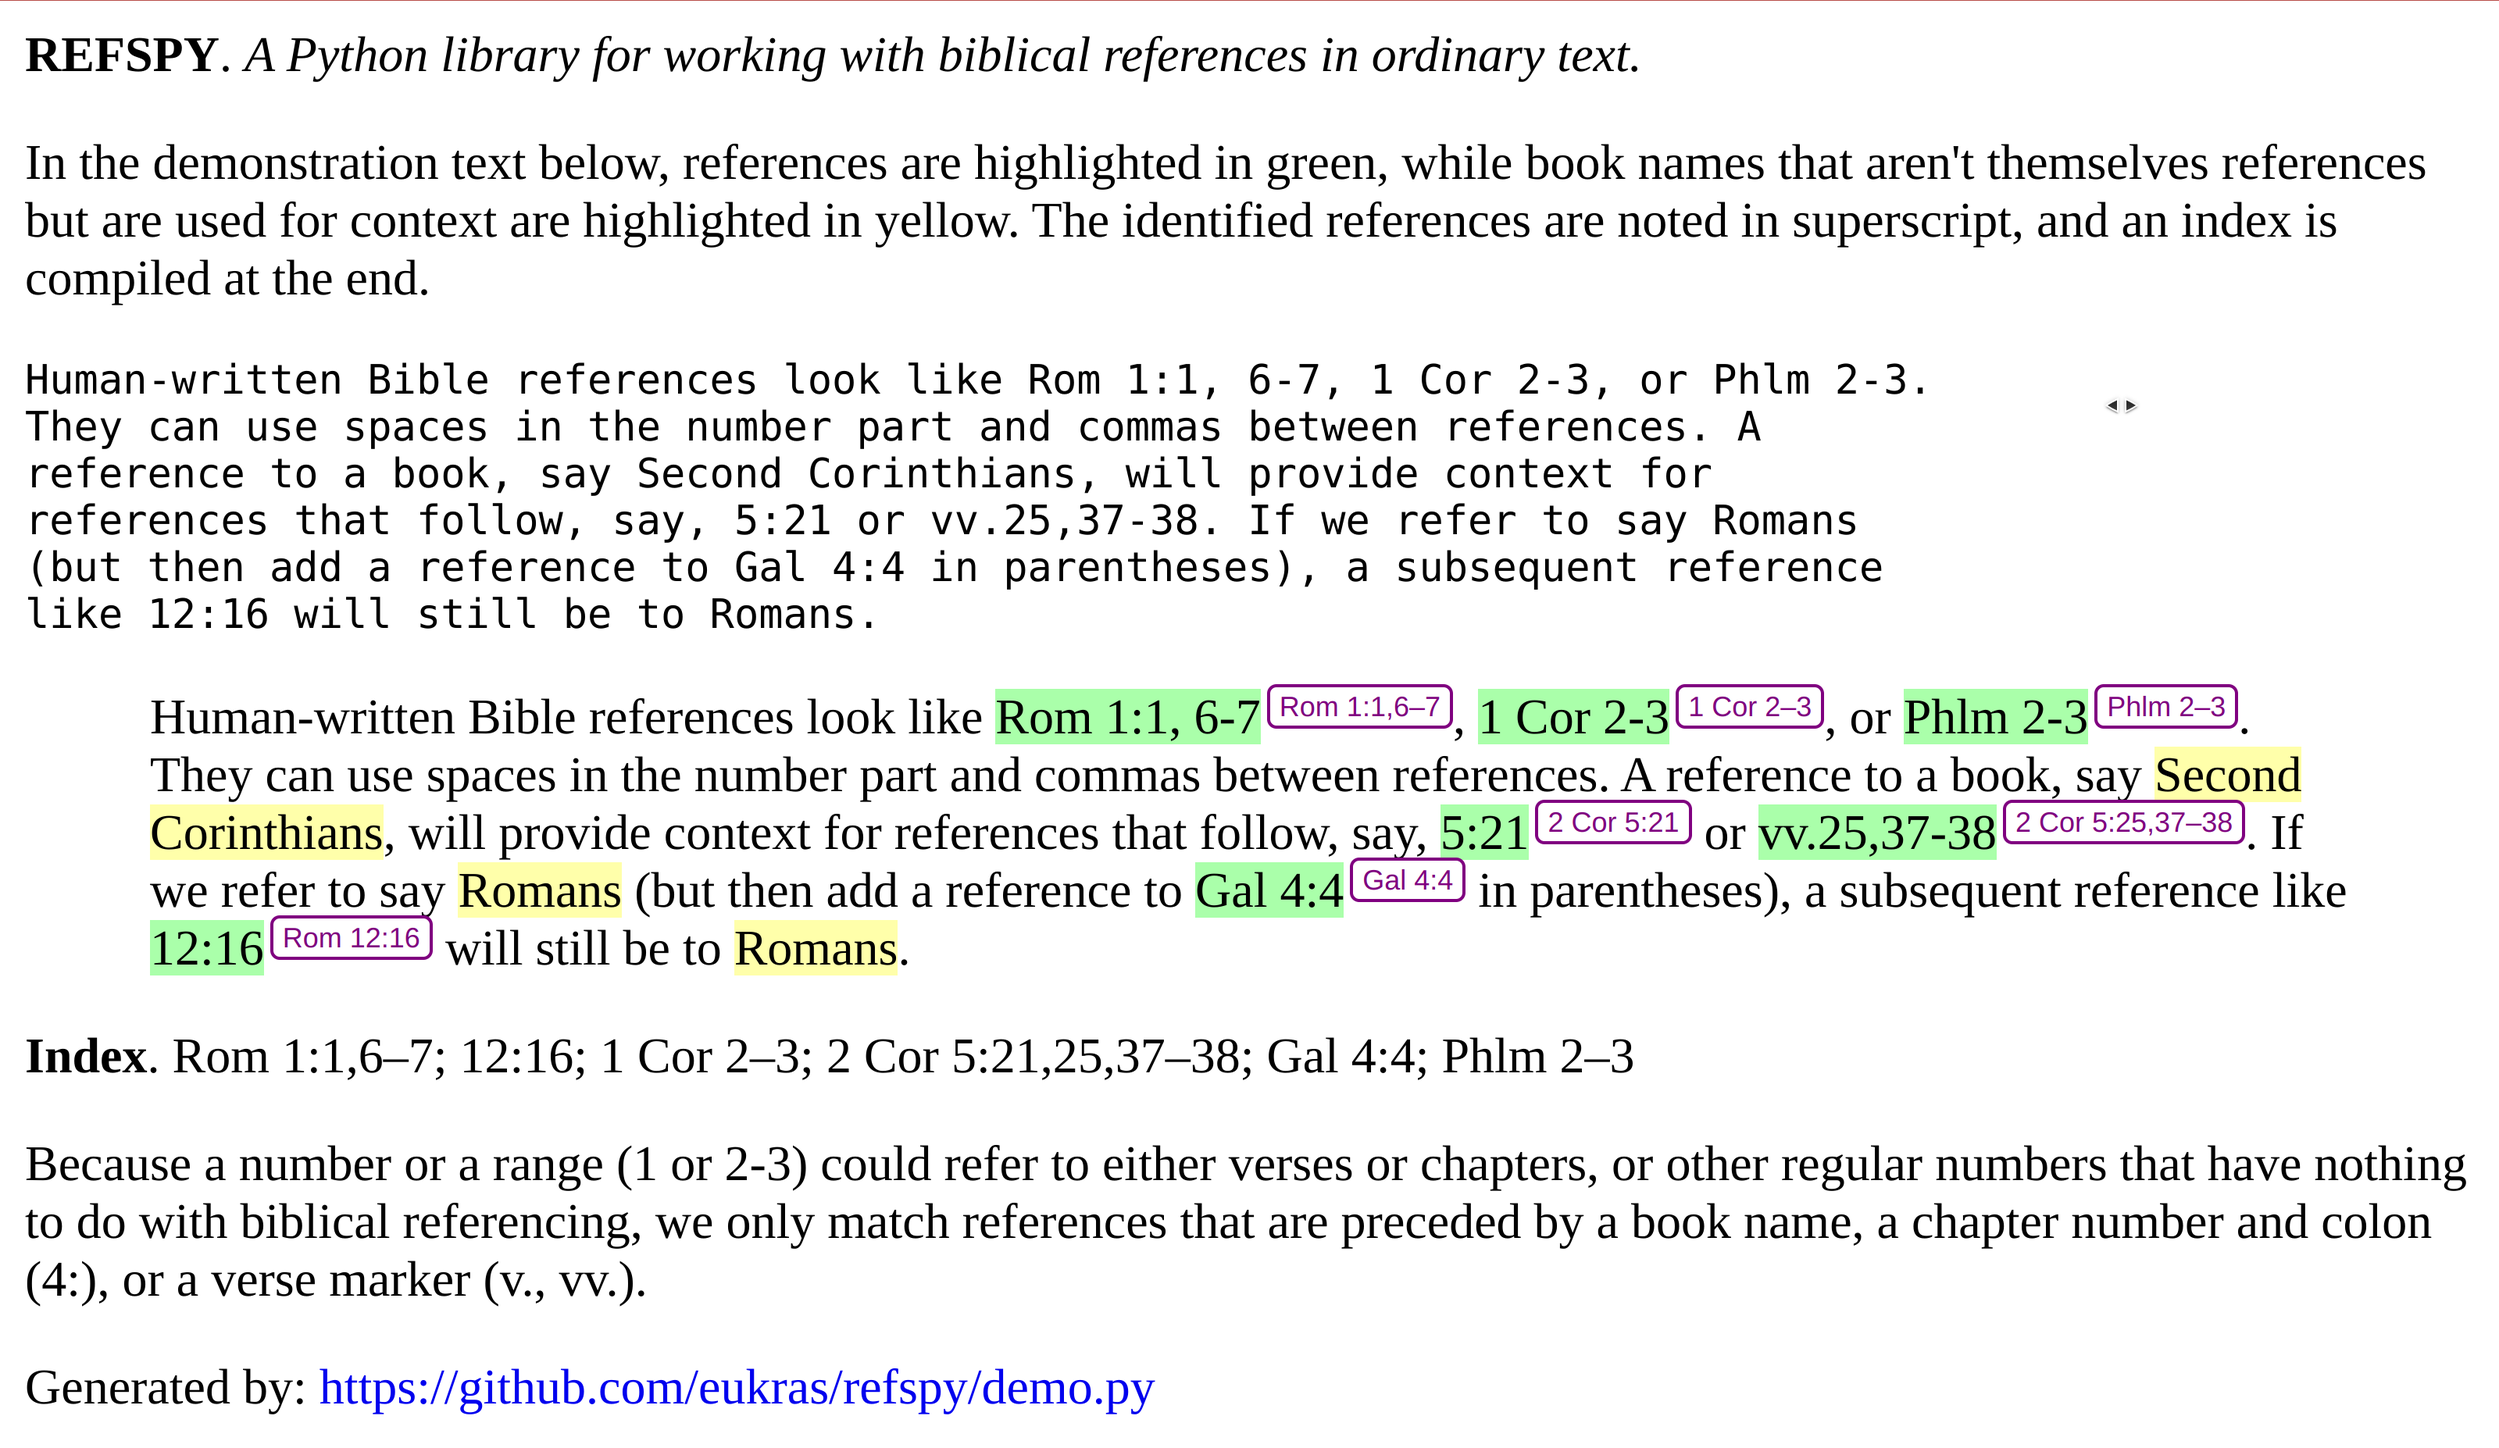
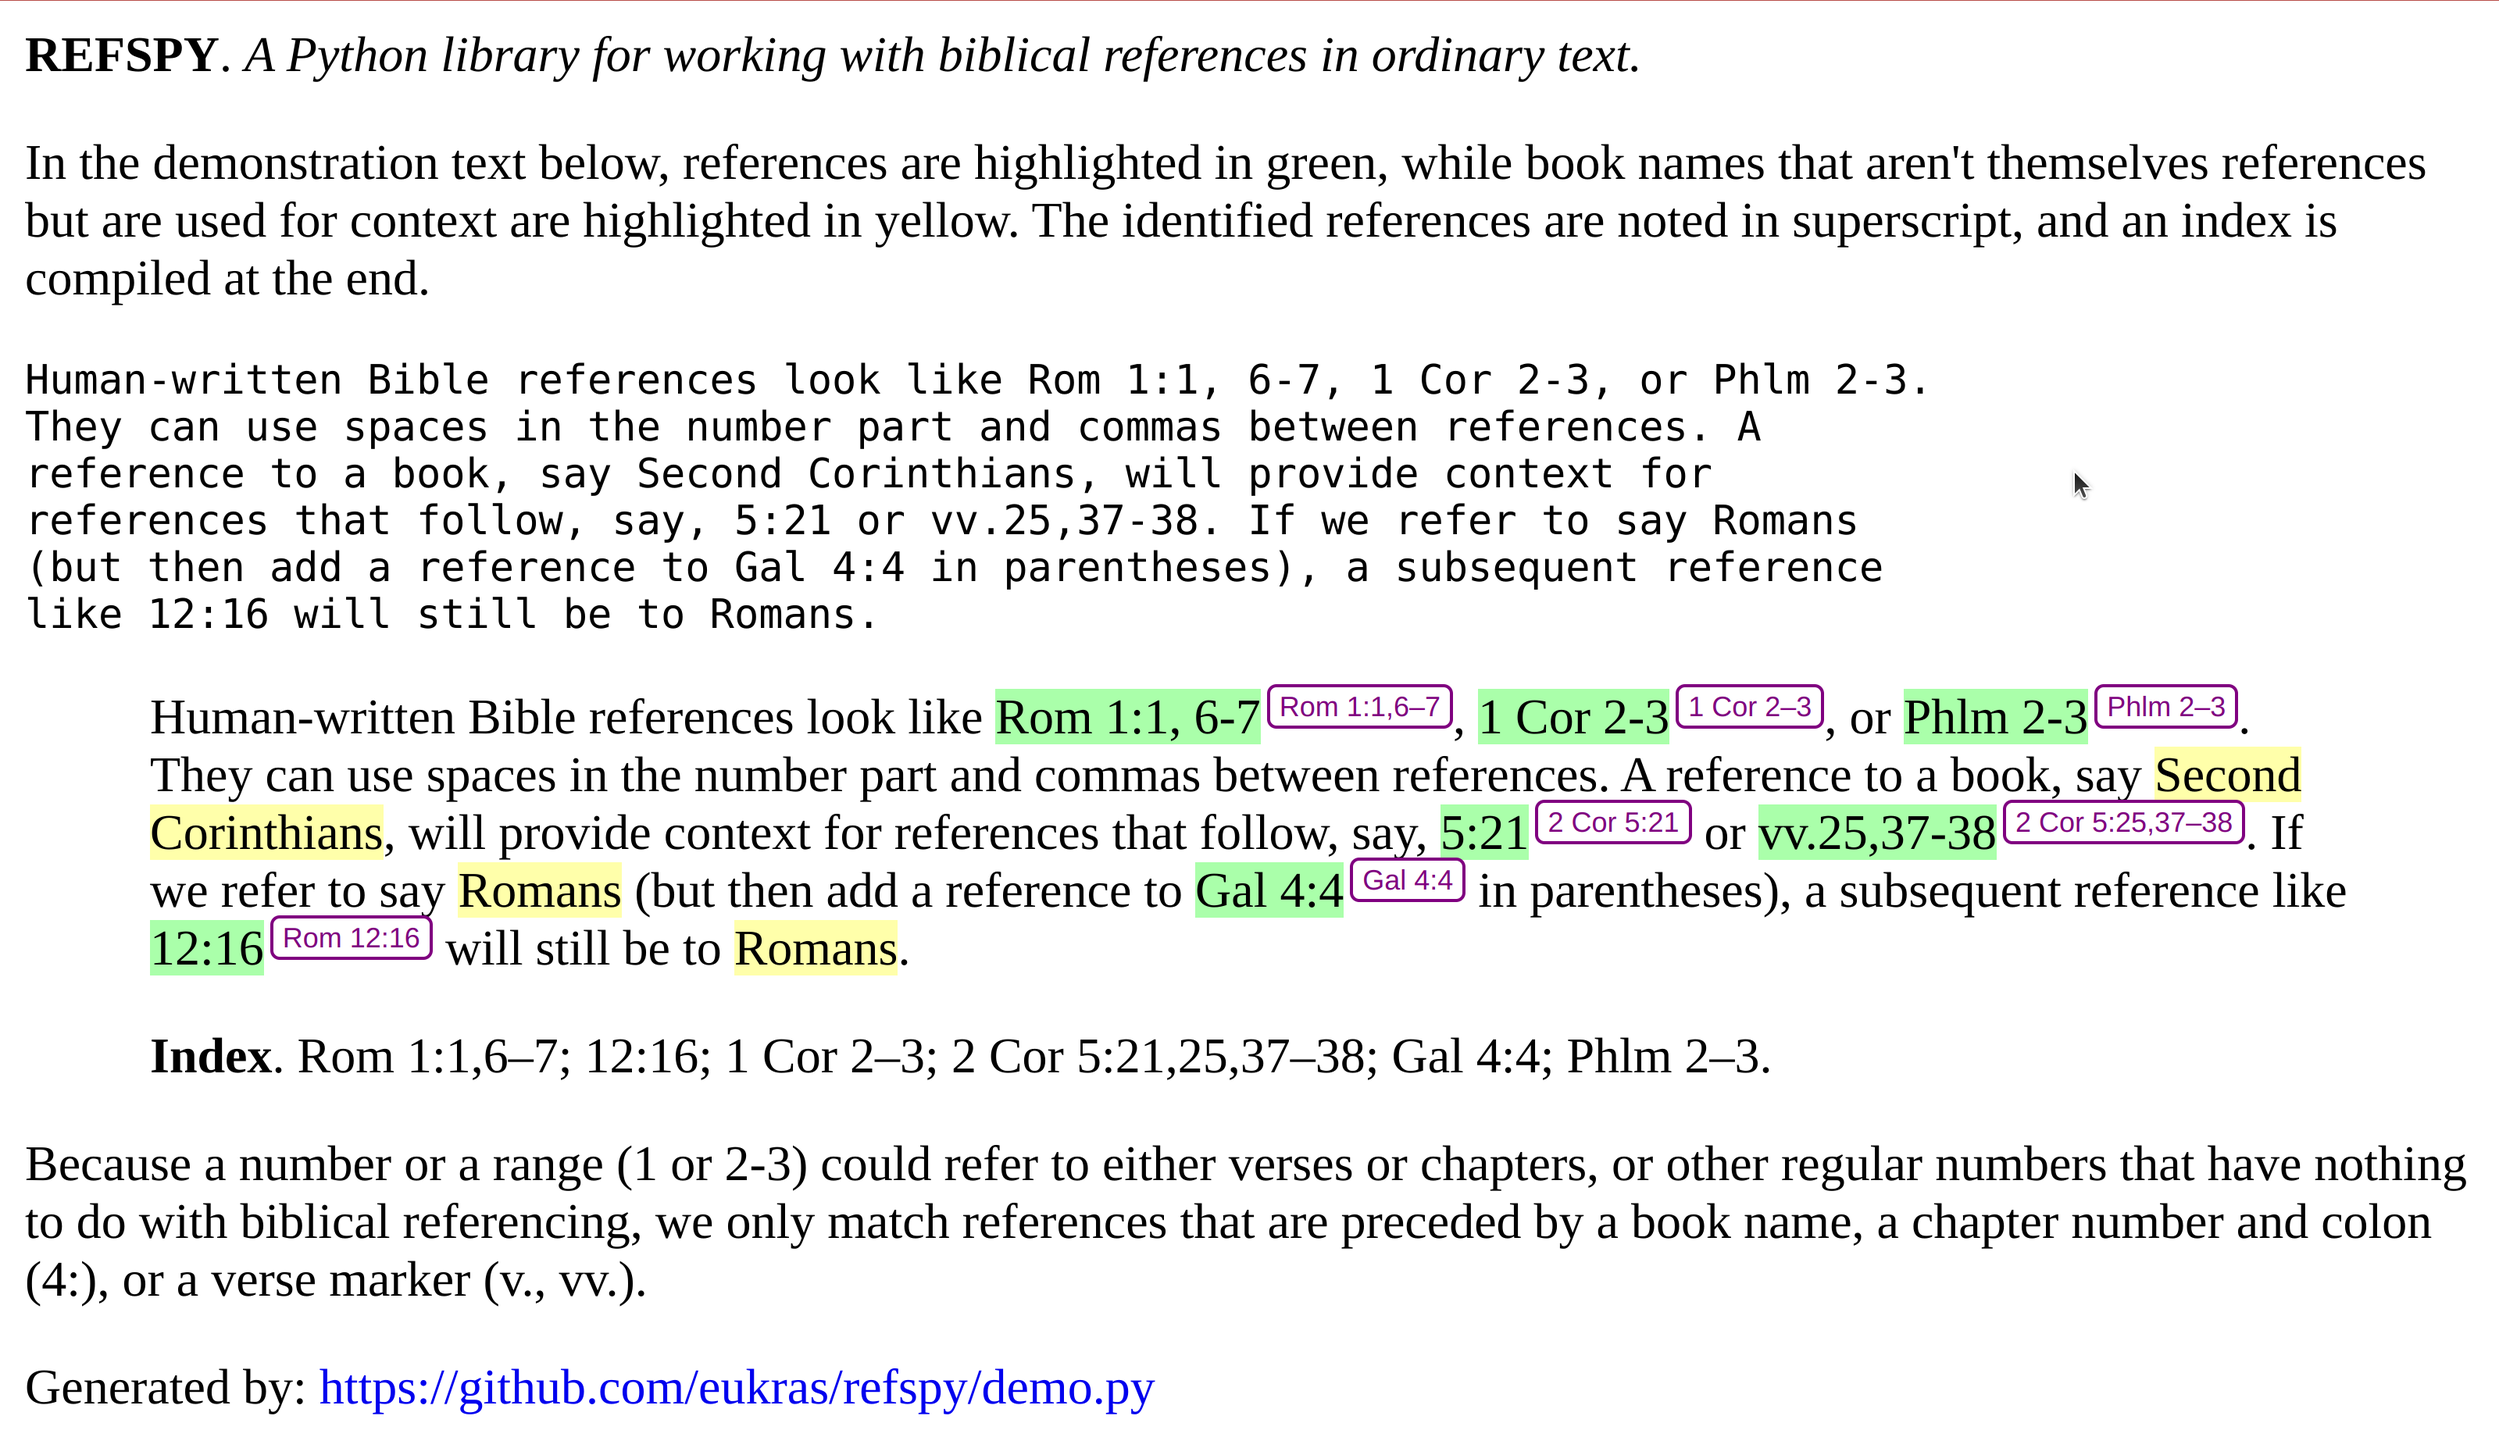
Indent demo output

Changed region(s): [[0.0, 0.7071, 0.7118, 0.7379]]

diff --git a/demo.py b/demo.py
@@ -57,7 +57,7 @@ print("""
 print(f"""
         <pre>{text}</pre>
         <blockquote>{sequential_replace(text, strs, tags)}</blockquote>
-        <p><b>Index</b>. {"; ".join(index)}</p>
+        <blockquote><b>Index</b>. {"; ".join(index)}.</blockquote>
         <p> Because a number or a range (1 or 2-3) could refer to either verses or
         chapters, or other regular numbers that have nothing to do with biblical
         referencing, we only match references that are preceded by a book name, a
